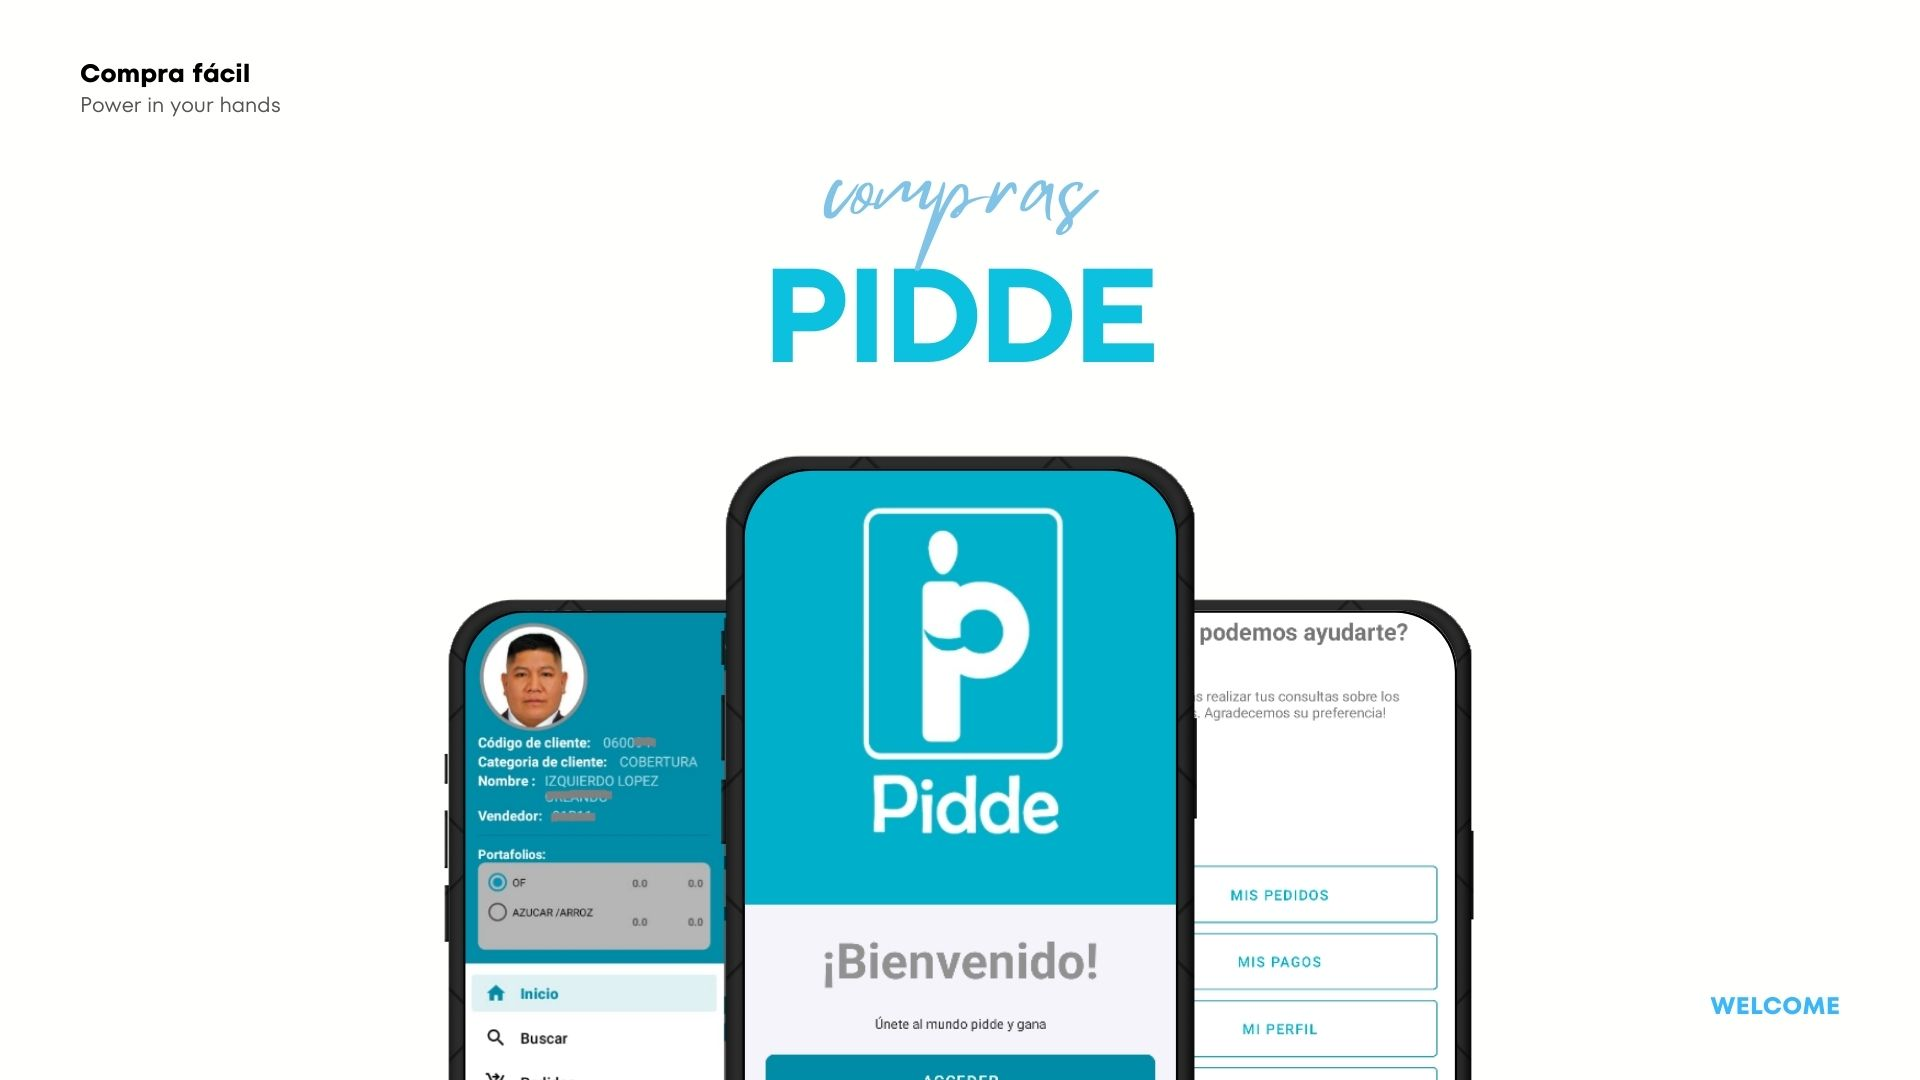
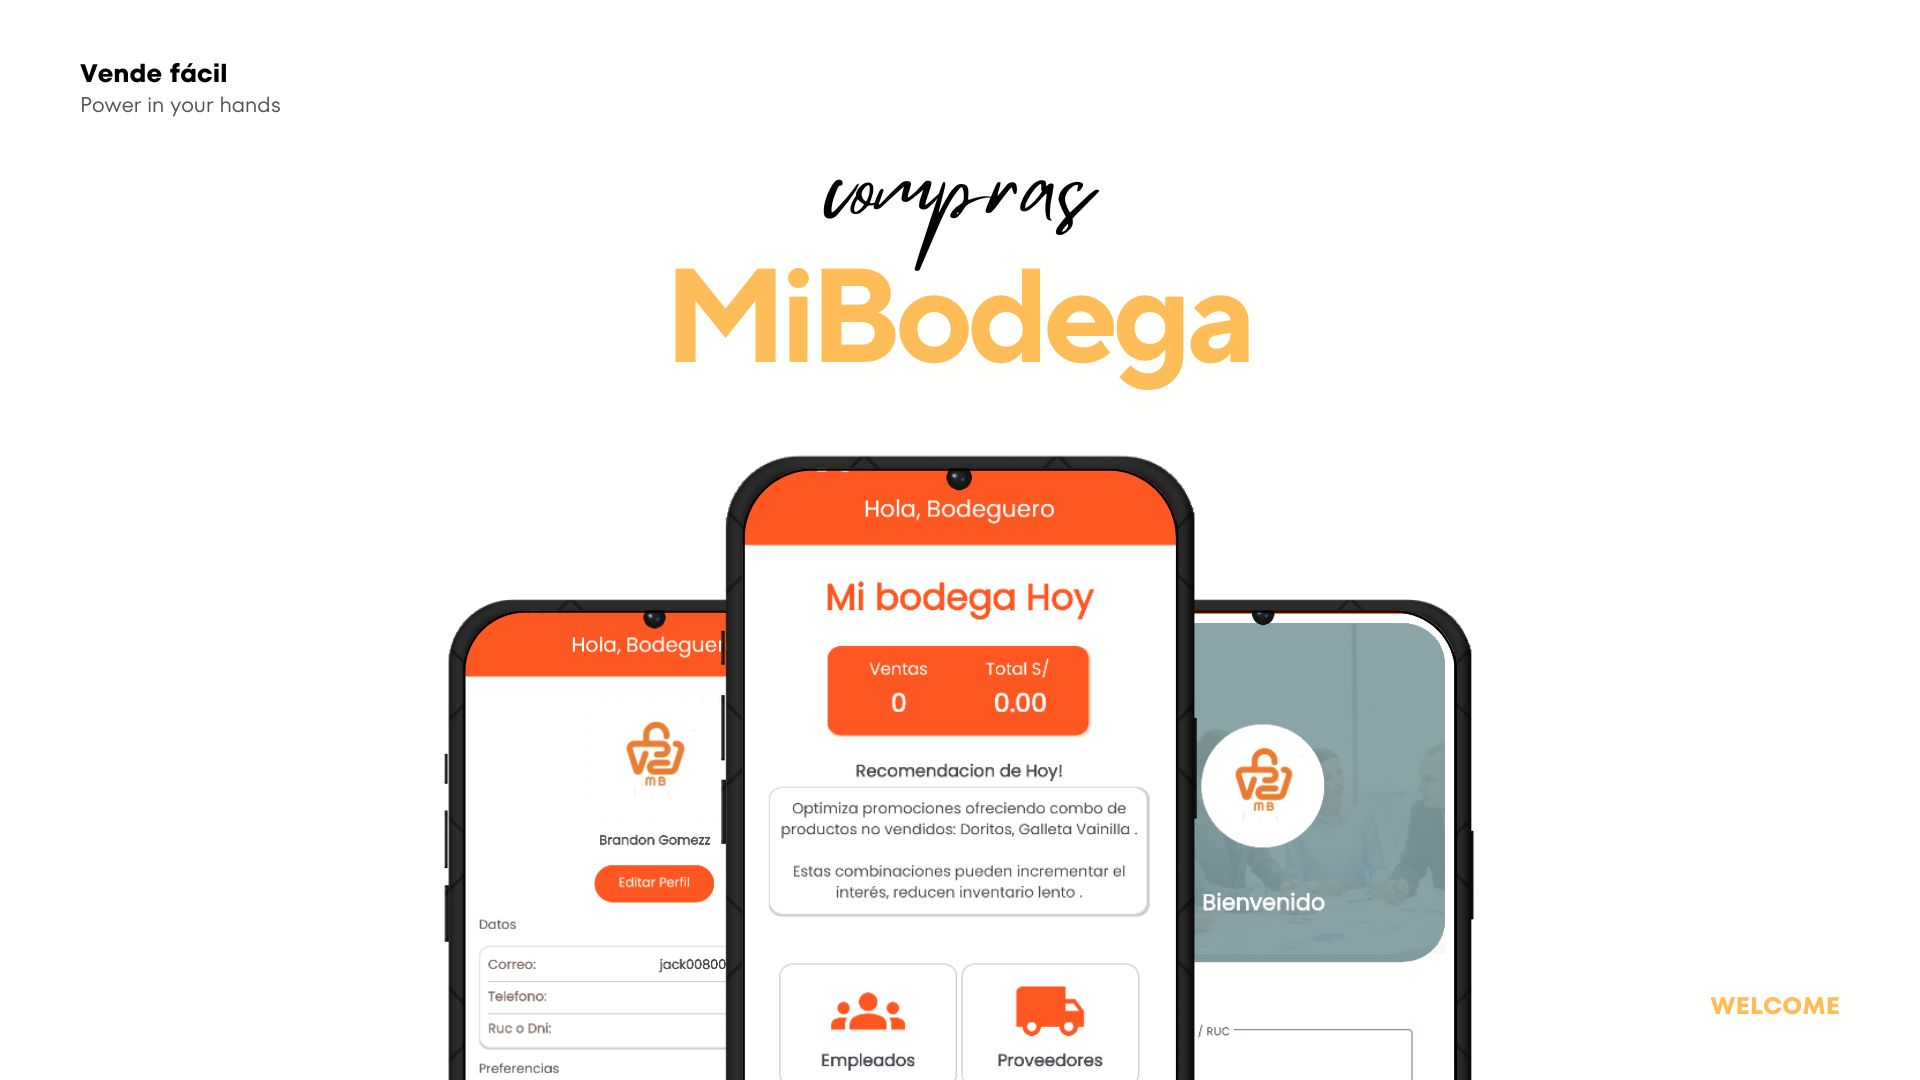
feat(update landing)

diff --git a/src/app/public/pages/home/home.component.html b/src/app/public/pages/home/home.component.html
@@ -19,7 +19,7 @@
 
   <mat-card class="example-card">
     <mat-card-header>
-      <mat-card-title>Realiza compras de productos Vega y P&G</mat-card-title>
+      <mat-card-title>Gestiona tu bodega fácil</mat-card-title>
       <mat-card-subtitle></mat-card-subtitle>
 
     </mat-card-header>
@@ -28,27 +28,78 @@
         <i class="fas fa-download"></i>
         Descargar App
       </a>
-      <h3>Bienvenido a la app móvil de Vega Distribuciones, diseñada para que los bodegueros clientes de Vega y Procter & Gamble realicen sus pedidos de forma rápida y sencilla directamente desde su teléfono.</h3>
-      <h4>Con nuestra aplicación podrá consultar el catálogo completo de productos P&G, realizar su pedido con unos pocos clics y obtener la confirmación al instante. Olvídese de tediosas llamadas telefónicas o planillas de pedido manuales.</h4>
+      <h3>Bienvenido a la app móvil diseñada para que los bodegueros y empleados,para que realicen realicen sus actividades operativas y de gestion de forma rápida y sencilla directamente desde su teléfono.</h3>
+      <section class="app-description">
+        <div class="container">
+          <div class="header text-center">
+            <p class="mat-subtitle-1">
+              Una solución completa e innovadora que revoluciona la manera de administrar tu negocio, potenciada por Inteligencia Artificial
+            </p>
+          </div>
 
-      <div class="description-content-information" style="padding: 20px">
+          <div class="features-grid">
+            <mat-card class="feature-card">
+              <mat-card-content>
+                <mat-icon color="primary">store</mat-icon>
+                <h3 class="mat-title">Control de Inventario</h3>
+                <p class="mat-body-1">
+                  Gestiona tu inventario en tiempo real con códigos de barras, control de existencias y seguimiento de pérdidas
+                </p>
+              </mat-card-content>
+            </mat-card>
 
-        <h4>Características principales:</h4>
+            <mat-card class="feature-card">
+              <mat-card-content>
+                <mat-icon color="primary">bar_chart</mat-icon>
+                <h3 class="mat-title">Análisis Inteligente</h3>
+                <p class="mat-body-1">
+                  Obtén insights valiosos sobre tu negocio con análisis predictivos y reportes detallados sobre ventas y tendencias
+                </p>
+              </mat-card-content>
+            </mat-card>
 
-        <span>Catálogo de productos P&G siempre actualizado</span><br>
-        <span>Búsqueda inteligente por nombre o código de producto</span><br>
-        <span>Fácil selección de unidades por producto</span><br>
-        <span>Resumen de pedido con totales</span><br>
-        <span>Notificación instantánea al confirmar el pedido</span><br>
-        <span>Historial completo de pedidos realizados</span><br>
-        <span>Soporte en línea por chat en caso de dudas</span><br>
+            <mat-card class="feature-card">
+              <mat-card-content>
+                <mat-icon color="primary">group</mat-icon>
+                <h3 class="mat-title">Gestión de Usuarios</h3>
+                <p class="mat-body-1">
+                  Administra roles y permisos para tu equipo, garantizando un control seguro de tu negocio
+                </p>
+              </mat-card-content>
+            </mat-card>
 
-      </div>
+            <mat-card class="feature-card">
+              <mat-card-content>
+                <mat-icon color="primary">psychology</mat-icon>
+                <h3 class="mat-title">Asistente IA</h3>
+                <p class="mat-body-1">
+                  Cuenta con un asistente inteligente GPT-4 que te ayuda a tomar mejores decisiones y optimizar tu negocio
+                </p>
+              </mat-card-content>
+            </mat-card>
 
-      <h4>Desarrollada pensando 100% en las necesidades del bodeguero, nuestra aplicación le permitirá ahorrar tiempo valioso en la gestión de sus pedidos a P&G y potenciar su negocio.
-        No pierda oportunidades de venta por desabastecimiento. Con la app móvil de Vega Distribuciones en su teléfono, podrá tener siempre a mano el catálogo completo de productos P&G y hacer su pedido en cuestión de minutos.
-        Descargue ya la app y comience a disfrutar de una experiencia de compra rápida y sencilla pensada para usted.
-      </h4>
+            <mat-card class="feature-card">
+              <mat-card-content>
+                <mat-icon color="primary">notifications</mat-icon>
+                <h3 class="mat-title">Alertas y Notificaciones</h3>
+                <p class="mat-body-1">
+                  Recibe alertas sobre stock bajo, productos próximos a vencer y oportunidades de mejora
+                </p>
+              </mat-card-content>
+            </mat-card>
+
+            <mat-card class="feature-card">
+              <mat-card-content>
+                <mat-icon color="primary">qr_code_scanner</mat-icon>
+                <h3 class="mat-title">Escaneo Fácil</h3>
+                <p class="mat-body-1">
+                  Escanea códigos de barras directamente desde tu smartphone para un control de inventario más eficiente
+                </p>
+              </mat-card-content>
+            </mat-card>
+          </div>
+        </div>
+      </section>
     </mat-card-content>
 
   </mat-card>

diff --git a/src/app/public/pages/about/about.component.html b/src/app/public/pages/about/about.component.html
@@ -1,25 +1,55 @@
 <div class="about-section">
-  <h2 style="text-align: center">Acerca de Nosotros</h2>
+  <div class="container">
+    <div class="header text-center">
+      <h2 class="mat-headline-1">Sobre Nosotros</h2>
+      <p class="mat-subtitle-1">
+        Transformando la gestión de bodegas con tecnología e innovación
+      </p>
+    </div>
 
-  <p>
-    Somos una plataforma que conecta a los mayoristas con los propietarios de bodegas en todo el Perú,
-    facilitando la compra y venta de abarrotes, bebidas, artículos de limpieza y más.
-  </p>
+    <div class="about-content">
+      <div class="about-text">
+        <p class="mat-body-1">
+          Somos un equipo comprometido con la digitalización y optimización de las bodegas en el Perú, comenzando por el distrito de Pueblo Libre. Nuestra misión es democratizar el acceso a herramientas de gestión inteligente para pequeños y medianos negocios.
+        </p>
+        <p class="mat-body-1">
+          Desarrollamos una solución innovadora que integra la potencia de la Inteligencia Artificial GPT-4 con una interfaz intuitiva y amigable, diseñada específicamente para las necesidades de los bodegueros peruanos.
+        </p>
+        <p class="mat-body-1">
+          Nuestro compromiso va más allá del software: buscamos generar un impacto positivo en la comunidad, ayudando a los bodegueros a optimizar sus operaciones, reducir pérdidas y mejorar su rentabilidad, contribuyendo así al desarrollo económico local.
+        </p>
+      </div>
 
-  <p>
-    Nuestro objetivo es apoyar a los pequeños negocios ofreciendo precios competitivos, variedad de productos
-    y entregas rápidas.
-  </p>
-
-  <p>
-    Estamos comprometidos con:
-  </p>
-
-  <ul>
-    <li>Ofrecer descuentos y promociones exclusivas</li>
-    <li>Simplificar el proceso de compra</li>
-    <li>Entregas rápidas y confiables</li>
-    <li>Servicio al cliente excepcional</li>
-  </ul>
+      <mat-card class="values-card">
+        <mat-card-header>
+          <mat-card-title>Nuestros Valores</mat-card-title>
+        </mat-card-header>
+        <mat-card-content>
+          <mat-list>
+            <mat-list-item>
+              <mat-icon matListItemIcon color="primary">fiber_manual_record</mat-icon>
+              <span matListItemTitle>Innovación y mejora continua</span>
+            </mat-list-item>
+            <mat-list-item>
+              <mat-icon matListItemIcon color="primary">fiber_manual_record</mat-icon>
+              <span matListItemTitle>Compromiso con nuestros usuarios</span>
+            </mat-list-item>
+            <mat-list-item>
+              <mat-icon matListItemIcon color="primary">fiber_manual_record</mat-icon>
+              <span matListItemTitle>Responsabilidad social</span>
+            </mat-list-item>
+            <mat-list-item>
+              <mat-icon matListItemIcon color="primary">fiber_manual_record</mat-icon>
+              <span matListItemTitle>Excelencia tecnológica</span>
+            </mat-list-item>
+            <mat-list-item>
+              <mat-icon matListItemIcon color="primary">fiber_manual_record</mat-icon>
+              <span matListItemTitle>Sostenibilidad empresarial</span>
+            </mat-list-item>
+          </mat-list>
+        </mat-card-content>
+      </mat-card>
+    </div>
+  </div>
 
 </div>

diff --git a/src/app/public/pages/home/home.component.css b/src/app/public/pages/home/home.component.css
@@ -26,7 +26,7 @@ img {
   margin: 1vh;
   top: 40%;
   transform: translateY(-50%);
-  height:40px; background-color: #43bdf3;
+  height:40px; background-color: #f1a52a;
   color: aliceblue;
   border-color: azure;
   border-radius: 30px;
@@ -45,7 +45,7 @@ img {
 .download-button {
   display: inline-block;
   padding: 15px 30px;
-  background: #54c0d3;
+  background: #ff6c3e;
   color: #fff;
   text-decoration: none;
   margin-top: 2vh;
@@ -63,14 +63,14 @@ img {
   line-height: 30px;
   text-align: center;
   background: #fff;
-  color: #55a2c4;
+  color: #fbaf5b;
   border-radius: 50%;
   margin-right: 10px;
   transition: transform 0.3s ease;
 }
 
 .download-button:hover {
-  background: #158fc9;
+  background: #f46700;
 }
 
 .download-button:hover i {
@@ -127,7 +127,7 @@ img {
 }
 
 .jk-carousel__content-item h1 span {
-  color: #039be5;
+  color: #f46700;
 }
 
 .jk-carousel__content-item p {

diff --git a/src/app/public/pages/home/home.component.ts b/src/app/public/pages/home/home.component.ts
@@ -23,40 +23,6 @@ export class HomeComponent implements OnInit, AfterViewInit{
       image:'assets/pidde-slide-1.jpg',
       marginLeft:0
     },
-    {
-      id:1,
-      title:{
-        first: 'TITULO',
-        second:'Principal',
-      },
-      subtitle:'',
-      link:'/',
-      image:'assets/pidde-slide-2.jpg',
-      marginLeft:0
-    },
-    {
-      id:1,
-      title:{
-        first: 'TITULO',
-        second:'Principal',
-      },
-      subtitle:'',
-      link:'/',
-      image:'assets/pidde-slide-3.jpg',
-      marginLeft:0
-    },
-    {
-      id:1,
-      title:{
-        first: 'TITULO',
-        second:'Principal',
-      },
-      subtitle:'',
-      link:'/',
-      image:'assets/pidde-slide-4.jpg',
-      marginLeft:0
-    },
-
   ];
 
 

diff --git a/src/app/app.component.css b/src/app/app.component.css
@@ -11,7 +11,7 @@ a{
   white-space: normal;
 }
 a:hover{
-  color: #0c4bea;
+  color: #f46700;
   background-color: #ffff;
 }
 
